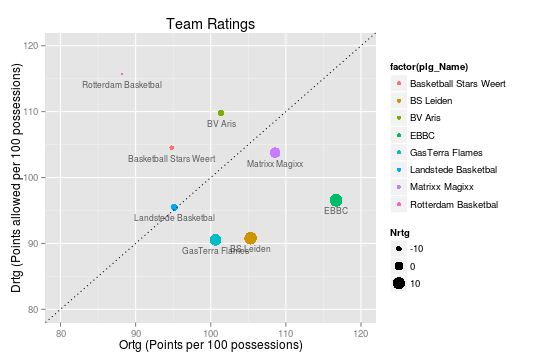
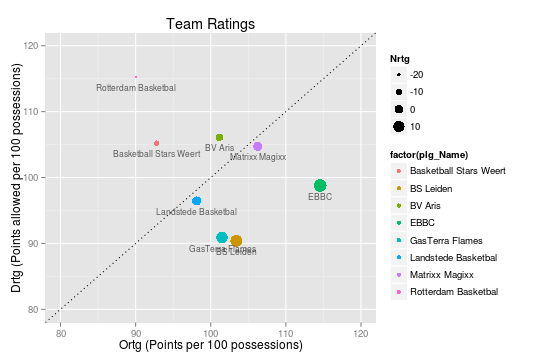
Updated report files

diff --git a/site/pages/reports/2011-2012/teamindicators_regular_season.rst b/site/pages/reports/2011-2012/teamindicators_regular_season.rst
@@ -10,31 +10,37 @@
 2011-2012 Regular season
 ====================================================
 
-Teams
------
+Results
+-------
 
 The following teams are in this competition:
 
 
++---+------------------------+------+-------+-------+-----------+-----------+-----------+
+|   | plg_Name               | pct  | W     | L     | avg(Nrtg) | avg(Ortg) | avg(Drtg) |
++===+========================+======+=======+=======+===========+===========+===========+
+| 1 | BS Leiden              | 0.79 | 22.00 | 6.00  | 13.03     | 103.42    | 90.40     |
++---+------------------------+------+-------+-------+-----------+-----------+-----------+
+| 2 | GasTerra Flames        | 0.79 | 22.00 | 6.00  | 10.61     | 101.50    | 90.89     |
++---+------------------------+------+-------+-------+-----------+-----------+-----------+
+| 3 | EBBC                   | 0.75 | 21.00 | 7.00  | 15.78     | 114.57    | 98.79     |
++---+------------------------+------+-------+-------+-----------+-----------+-----------+
+| 4 | Matrixx Magixx         | 0.61 | 17.00 | 11.00 | 1.52      | 106.26    | 104.74    |
++---+------------------------+------+-------+-------+-----------+-----------+-----------+
+| 5 | Landstede Basketbal    | 0.43 | 12.00 | 16.00 | 1.67      | 98.12     | 96.45     |
++---+------------------------+------+-------+-------+-----------+-----------+-----------+
+| 6 | BV Aris                | 0.32 | 9.00  | 19.00 | -4.93     | 101.16    | 106.09    |
++---+------------------------+------+-------+-------+-----------+-----------+-----------+
+| 7 | Basketball Stars Weert | 0.18 | 5.00  | 23.00 | -12.41    | 92.82     | 105.22    |
++---+------------------------+------+-------+-------+-----------+-----------+-----------+
+| 8 | Rotterdam Basketbal    | 0.14 | 4.00  | 24.00 | -25.27    | 90.03     | 115.30    |
++---+------------------------+------+-------+-------+-----------+-----------+-----------+
 
-::
-
-    ##   plg_ID               plg_Name
-    ## 1   1771    Landstede Basketbal
-    ## 2   2393         Matrixx Magixx
-    ## 3   2571 Basketball Stars Weert
-    ## 4   2823                   EBBC
-    ## 5   3103    Rotterdam Basketbal
-    ## 6   3107              BS Leiden
-    ## 7   3138                BV Aris
-    ## 8   8594        GasTerra Flames
 
 
 
-
-
-Ratings
--------
+Ratings and Pace
+----------------
 
 
 .. figure:: figure/rating-quadrant.png
@@ -65,14 +71,20 @@ Ratings
 
 
 
+.. figure:: figure/pace-by-team.png
+    :alt: 
+
+    
+
+
 Four Factors
 ------------
 
-The net rating is plotted against all "four factors"" 
+The net rating is plotted against all "four factors"
 for all games in this competition.
 These plots show us how each of the four factors influences the net rating.
 Because we can assume the net rating to be the best indicator of actually winning games,
-these plots show ho and how strongly each of the four factor contribute to winning basketball games in the DBL in this season. 
+these plots show how and how strongly each of the four factors contribute to winning basketball games in the DBL in this season. 
 
 
 .. figure:: figure/net-rating-by-four-factor.png
@@ -96,3 +108,84 @@ The correlation matrix for the four factors and the net rating is displayed belo
 
 
 
+
+By Team
+^^^^^^^
+
+
+.. figure:: figure/efg-by-team.png
+    :alt: 
+
+    
+
+
+
+.. figure:: figure/or-pct-by-team.png
+    :alt: 
+
+    
+
+
+
+.. figure:: figure/to-pct-team.png
+    :alt: 
+
+    
+
+
+
+.. figure:: figure/ftt-pct-team.png
+    :alt: 
+
+    
+
+
+By Opponent
+^^^^^^^^^^^
+
+
+.. figure:: figure/opp-efg-by-team.png
+    :alt: 
+
+    
+
+
+
+.. figure:: figure/opp-or-pct-by-team.png
+    :alt: 
+
+    
+
+
+
+.. figure:: figure/opp-to-pct-team.png
+    :alt: 
+
+    
+
+
+
+.. figure:: figure/opp-ftt-pct-team.png
+    :alt: 
+
+    
+
+
+Points
+------
+
+
+.. figure:: figure/point-differential-by-team.png
+    :alt: 
+
+    
+
+
+
+
+.. todo::
+
+  Add a header:
+  
+   * date of last analyzed games
+   * number of games analyzed
